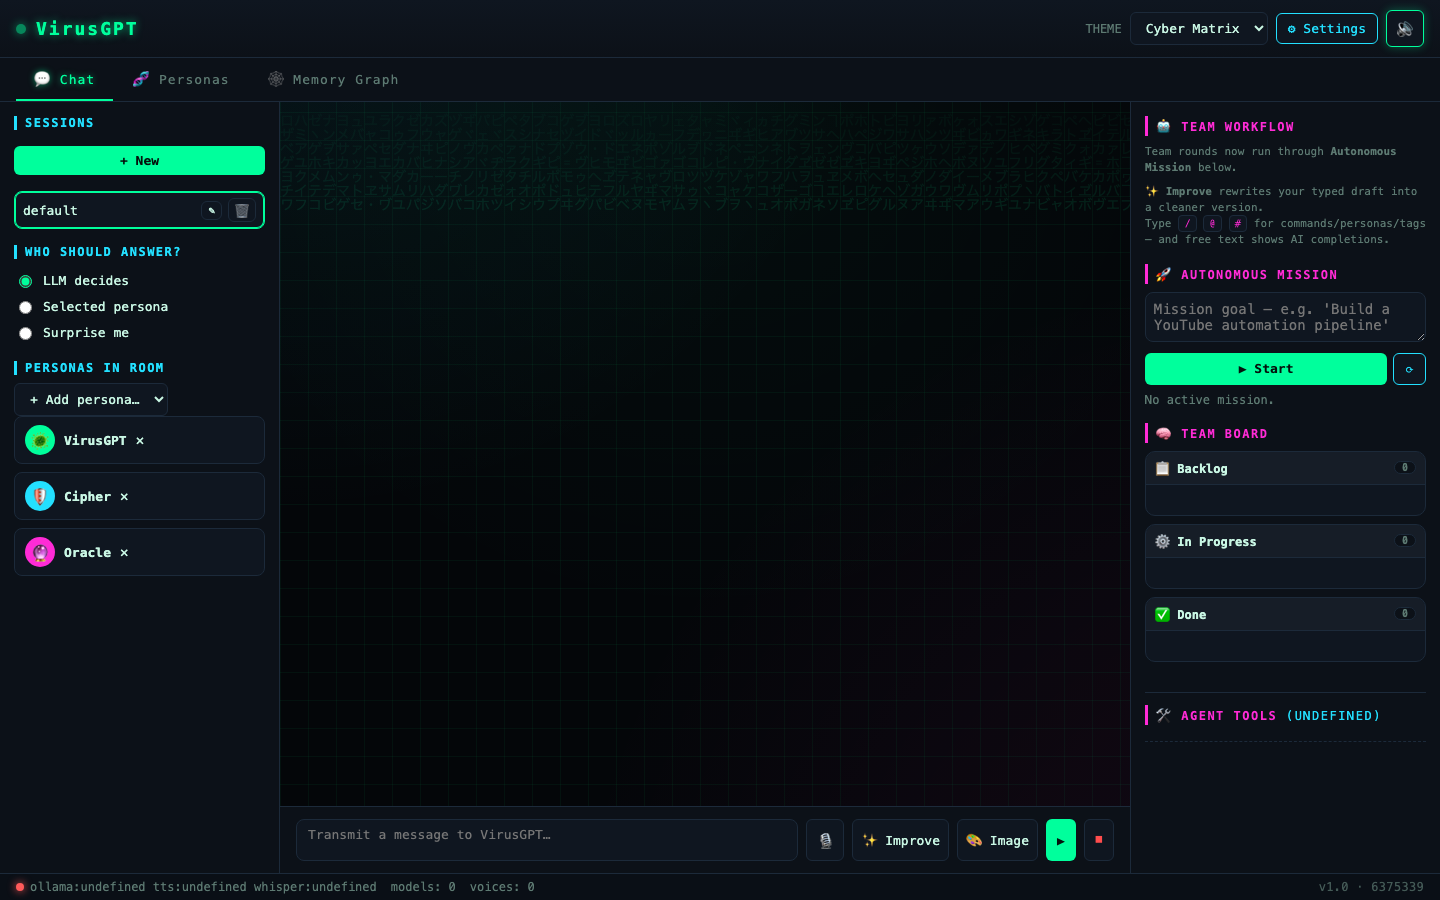
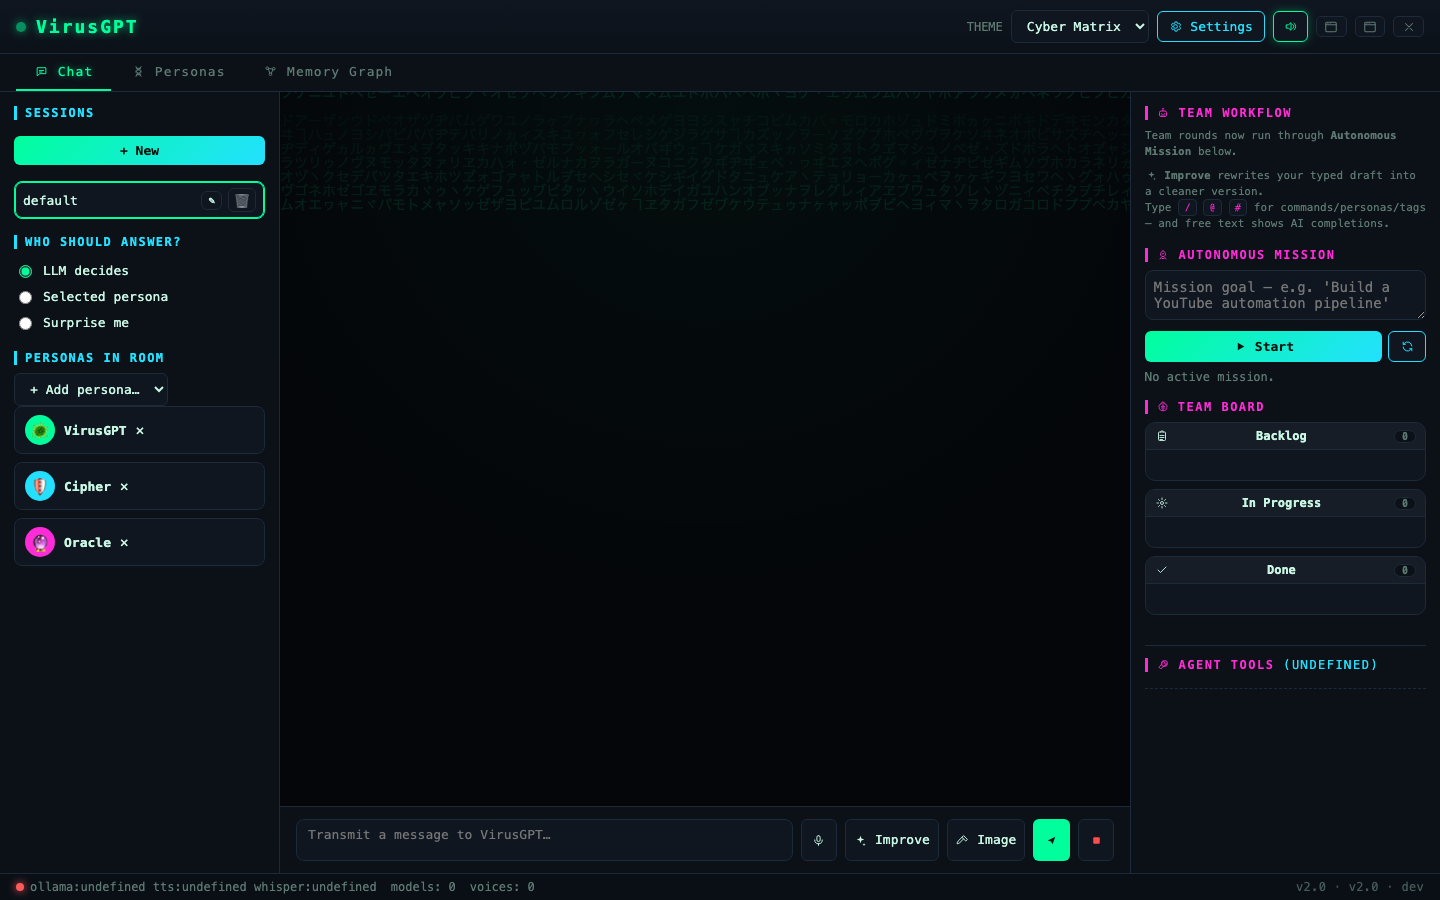
fix(build): version commit field is always a short hash (not the tag)
git_version() previously let 'git describe' leak the tag name (e.g. v2.0)
into the commit field, so the updater compared a tag string against a real
commit hash and always reported 'update available'. Commit field is now the
short HEAD hash; tag only drives the human-readable version label.

diff --git a/app/index.html b/app/index.html
@@ -5,7 +5,7 @@
 <meta name="viewport" content="width=device-width, initial-scale=1.0" />
 <title>VirusGPT ~ Offline Agent Chat</title>
 <link rel="icon" type="image/svg+xml" href="/assets/images/favicon.svg" />
-<link rel="stylesheet" href="/assets/css/styles.css?v=8" />
+<link rel="stylesheet" href="/assets/css/styles.css?v=14" />
 </head>
 
 <body style="background:#05070a;margin:0">
@@ -210,16 +210,16 @@
   <script src="/assets/js/config.js?v=14"></script>
   <script src="/assets/js/utils.js?v=13"></script>
   <script src="/assets/js/tts.js?v=13"></script>
-  <script src="/assets/js/messages.js?v=13"></script>
-  <script src="/assets/js/personas.js?v=13"></script>
+  <script src="/assets/js/messages.js?v=14"></script>
+  <script src="/assets/js/personas.js?v=14"></script>
   <script src="/assets/js/sessions.js?v=13"></script>
-  <script src="/assets/js/chat.js?v=13"></script>
+  <script src="/assets/js/chat.js?v=14"></script>
   <script src="/assets/js/autocomplete.js?v=13"></script>
   <script src="/assets/js/team.js?v=13"></script>
   <script src="/assets/js/memory.js?v=13"></script>
-  <script src="/assets/js/ui.js?v=13"></script>
+  <script src="/assets/js/ui.js?v=14"></script>
   <script src="/assets/js/services_ui.js?v=13"></script>
   <script src="/assets/js/updates.js?v=13"></script>
-  <script src="/assets/js/main.js?v=13"></script>
+  <script src="/assets/js/main.js?v=14"></script>
 </body>
 </html>

diff --git a/app/assets/js/personas.js b/app/assets/js/personas.js
@@ -62,12 +62,12 @@ function renderPersonaCards(){
         <input type="file" class="clone-audio" accept="audio/*">
         <div style="display:flex;gap:8px">
           <button class="btn-accent clone-do">Upload &amp; Clone</button>
-          <button class="btn-secondary clone-prev">🔊 Preview</button>
+          <button class="btn-secondary clone-prev"><span class="vg-ico" data-ico="speaker_on"></span> Preview</button>
         </div>
       </div>
       <div class="clone-status ${isClone?'ready':''}">${isClone?'✔ cloned voice ('+p.voice+')':'select a voice or clone a new one'}</div>
       <div class="actions">
-        <button class="btn-secondary pf-test">🔊 Test</button>
+        <button class="btn-secondary pf-test"><span class="vg-ico" data-ico="speaker_on"></span> Test</button>
         <button class="btn-secondary pf-del">Delete</button>
         <button class="btn-accent pf-save">Save</button>
       </div>`;

diff --git a/app/assets/js/main.js b/app/assets/js/main.js
@@ -30,6 +30,7 @@ function showVersion(){
 function boot(){
   try{
     setTheme(lsGet('vg_theme', 'cyber'));
+    if(window.initIcons) initIcons();   // fill .vg-ico placeholders from icons.js
     initTabs();
     initSessions();      // builds the left-side session list + New button
     renderPersonas();

diff --git a/desktop/build-macos.py b/desktop/build-macos.py
@@ -22,23 +22,22 @@ APP_NAME = "VirusGPT"
 
 def git_version():
     """Return (version, commit) from git. version = latest tag (or '1.0'),
-    commit = short hash. Falls back to ('dev', 'unknown') if git is unavailable."""
+    commit = short hash of HEAD. Falls back to ('dev', 'unknown') if git is
+    unavailable.
+
+    The commit field is ALWAYS the short commit hash (never the tag name) so the
+    updater can compare running vs origin/<branch> by hash. The tag only drives
+    the human-readable version label.
+    """
     version = "1.0"
     commit = "unknown"
     try:
-        tag = subprocess.run(
-            ["git", "-C", str(ROOT), "describe", "--tags", "--always"],
+        # Commit hash first — this is what the updater compares.
+        commit = subprocess.run(
+            ["git", "-C", str(ROOT), "rev-parse", "--short", "HEAD"],
             capture_output=True, text=True, timeout=10,
-        ).stdout.strip()
-        if tag:
-            # describe gives e.g. "v1.0-3-gabcd123" or "gabcd123"; strip leading g/
-            commit = tag.split("-")[-1].lstrip("g")
-        else:
-            commit = subprocess.run(
-                ["git", "-C", str(ROOT), "rev-parse", "--short", "HEAD"],
-                capture_output=True, text=True, timeout=10,
-            ).stdout.strip()
-        # use the most recent tag if present for the version label
+        ).stdout.strip() or "unknown"
+        # Version label = most recent tag (if any), else 1.0.
         taglist = subprocess.run(
             ["git", "-C", str(ROOT), "tag", "--sort=-creatordate"],
             capture_output=True, text=True, timeout=10,
